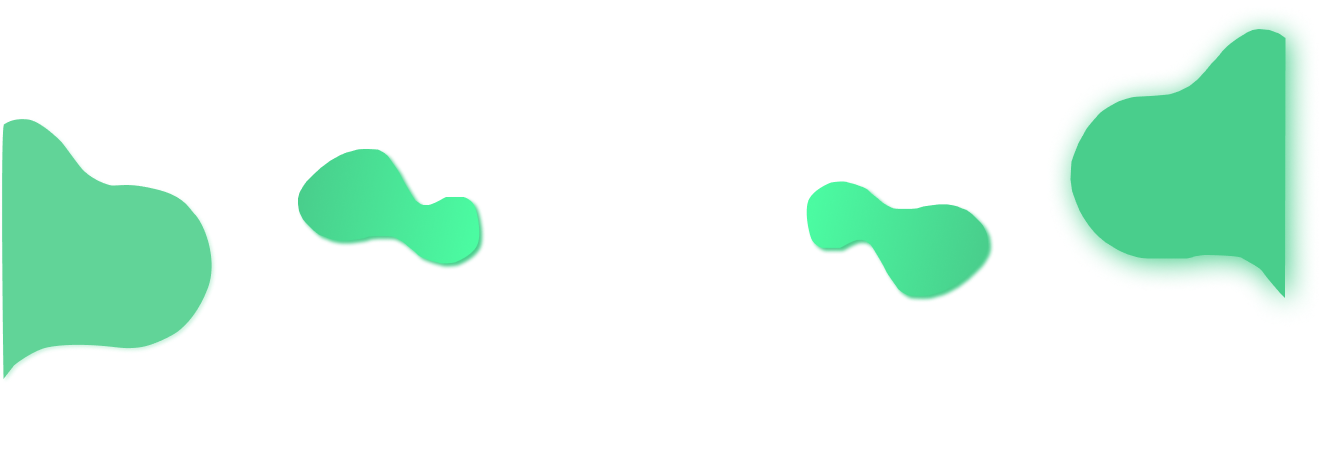
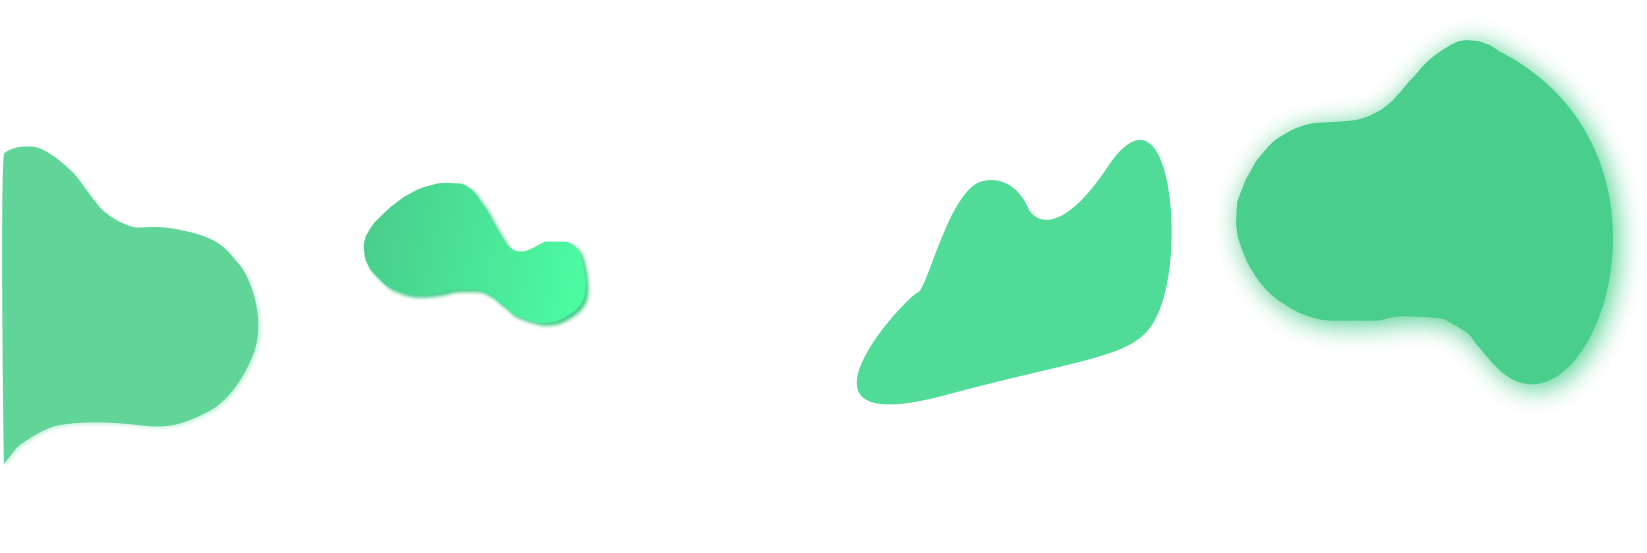
updated download section background

diff --git a/src/css/style.css b/src/css/style.css
@@ -179,11 +179,13 @@
     display:flex;
     flex-direction: column;
     align-items: center;
-    padding-bottom:50px;
+    margin-bottom:50px;
     margin-top: 50px;
-    /* background: url("../img/downloadappBG.png");
+    background: url("../img/downloadappBG.png");
     background-size:cover;
-    background-repeat:no-repeat; */
+    background-repeat:no-repeat;
+    background-position:center;
+
 }
 
 .download-app a{

diff --git a/index.html b/index.html
@@ -149,7 +149,7 @@
 
     </section>
 
-    <div class="download-app">
+    <div class="download-app bound-two">
         <a href="#">View More</a> <!-- button of charity section -->
         <img src="./src/img/appstoreicon.png" alt="" width="300"> <br>
         <img src="./src/img/googleplayicon.png" alt="" width="300">
